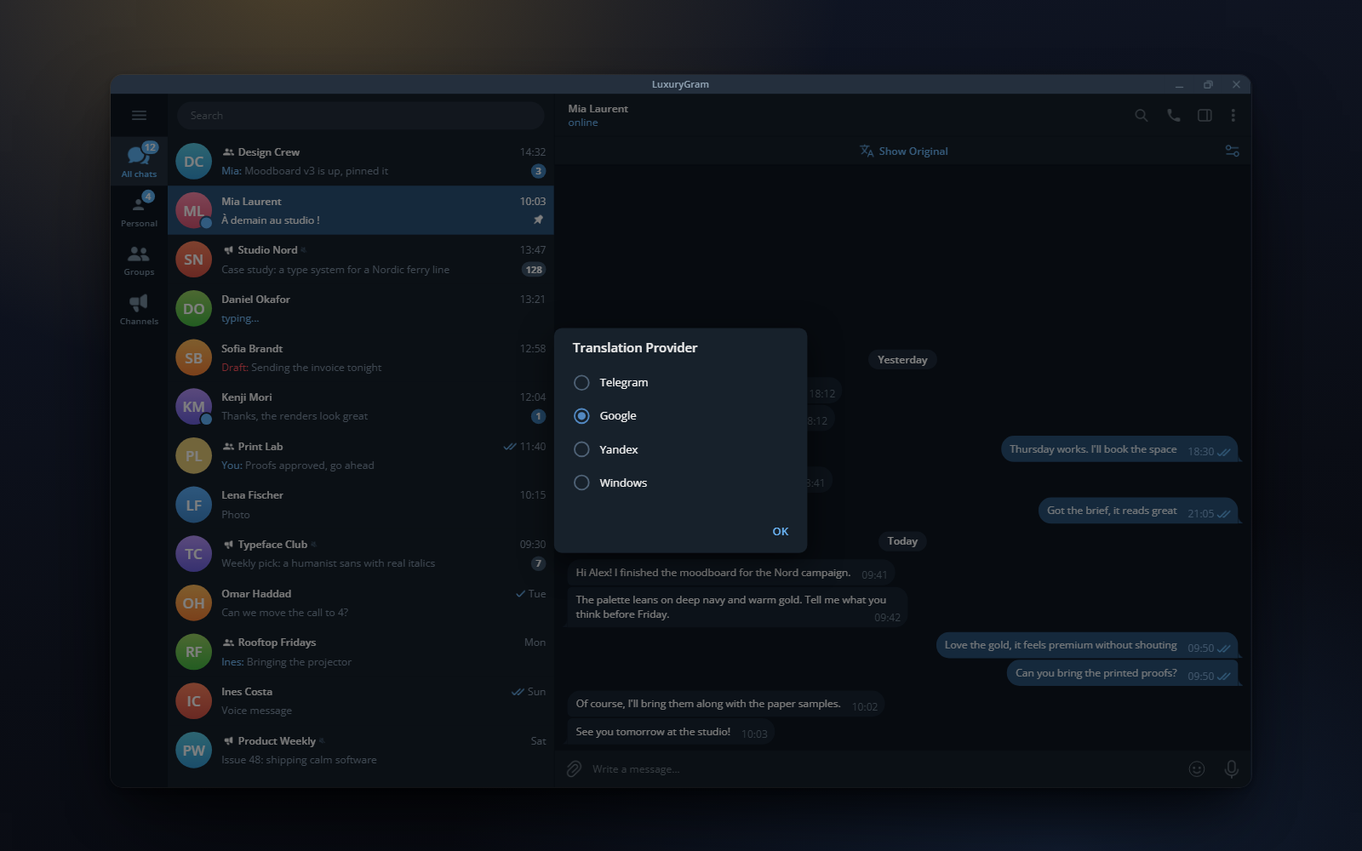
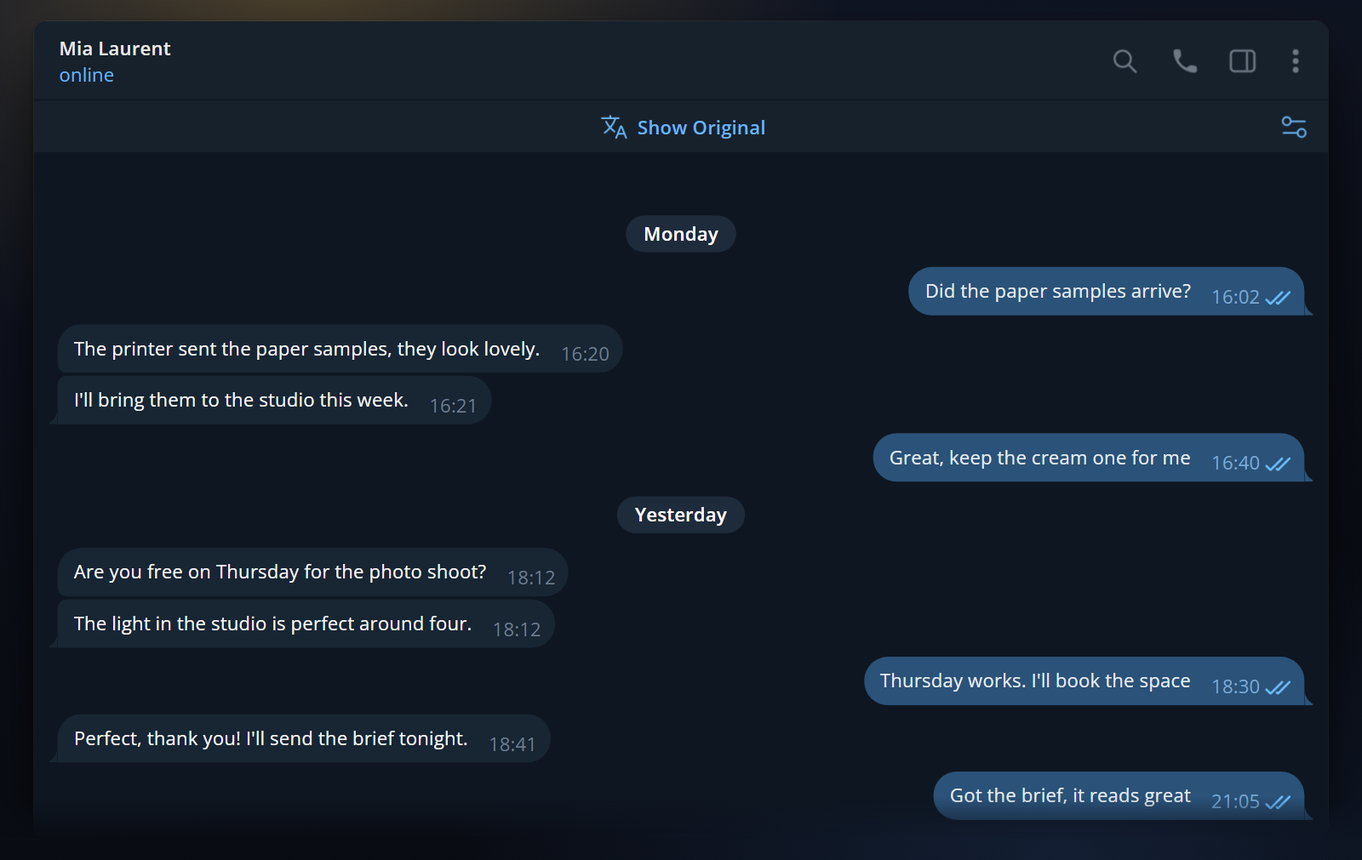
Docs: correct showcase claims and Russian interface paths
Translate card no longer shows a Windows provider; release-gated
items are written for 1.0.22; Russian paths follow the language pack.

diff --git a/README-RU.md b/README-RU.md
@@ -2,7 +2,7 @@
   <img src=".github/assets/showcase/hero.png" width="100%" alt="LuxuryGram: Telegram для компьютера с контролем приватности, анти-удалением и плагинами">
 
   <h1>LuxuryGram</h1>
-  <p><strong>Telegram Desktop с большим контролем: приватность на ваших условиях, история каждой правки и удаления и безопасные плагины.</strong></p>
+  <p><strong>Telegram Desktop с большим контролем: приватность на ваших условиях, история каждой правки и удаления, безопасные плагины.</strong></p>
   <p>Открытый исходный код · На базе AyuGram · Основан на Telegram Desktop · Windows и Linux</p>
 
   <p>
@@ -42,7 +42,7 @@
     <img src=".github/assets/showcase/tour-preview.gif" width="100%" alt="Обзор LuxuryGram: нажмите, чтобы открыть видео">
   </a>
   <br>
-  <sub>Нажмите на превью, чтобы посмотреть обзор целиком (MP4).</sub>
+  <sub>Нажмите на превью, чтобы открыть видеообзор целиком (MP4, 11 МБ).</sub>
 </div>
 
 ## Почему LuxuryGram
@@ -51,7 +51,7 @@
   <tr>
     <td width="50%" valign="top">
       <h3>Приватность на ваших условиях</h3>
-      Читайте чаты и истории без отметок о прочтении, печатайте без индикатора набора и появляйтесь в сети, только когда решите сами. Режим стримера скрывает окно от захвата экрана.
+      Читайте чаты и истории без отметок о прочтении, печатайте без индикатора набора и появляйтесь в сети, только когда решите сами. Режим стримера скрывает окно от захвата экрана в Windows и macOS.
     </td>
     <td width="50%" valign="top">
       <h3>Ничего не исчезает бесследно</h3>
@@ -76,8 +76,8 @@
   <tr>
     <td width="50%" valign="top">
       <img src=".github/assets/showcase/01-hero.png" width="100%" alt="Главное окно LuxuryGram с чатами и папками">
-      <p><strong>Telegram, доведённый до совершенства на компьютере</strong><br>
-      Ваши чаты, папки и группы в привычной раскладке Telegram Desktop, в тёмно-синем с золотом стиле LuxuryGram.</p>
+      <p><strong>Telegram, отточенный для компьютера</strong><br>
+      Ваши чаты, папки и группы в привычной раскладке Telegram Desktop, со встроенными возможностями LuxuryGram.</p>
     </td>
     <td width="50%" valign="top">
       <img src=".github/assets/showcase/02-ghost.png" width="100%" alt="Настройки режима призрака">
@@ -89,19 +89,19 @@
     <td width="50%" valign="top">
       <img src=".github/assets/showcase/03-antirecall.png" width="100%" alt="Удалённые и изменённые сообщения с метками в чате">
       <p><strong>Ничего не исчезает бесследно</strong><br>
-      Удалённые сообщения остаются читаемыми с меткой корзины, изменённые получают карандаш, а ПКМ › History показывает все прежние версии.</p>
+      Удалённые сообщения остаются читаемыми с меткой корзины, изменённые получают карандаш, а ПКМ › «История» показывает все прежние версии.</p>
     </td>
     <td width="50%" valign="top">
       <img src=".github/assets/showcase/04-history.png" width="100%" alt="История правок сообщения">
       <p><strong>Каждая правка на счету</strong><br>
-      Окно History показывает все сохранённые версии сообщения со временем, когда каждая была записана.</p>
+      Окно «История» показывает все сохранённые версии сообщения со временем, когда каждая была записана.</p>
     </td>
   </tr>
   <tr>
     <td width="50%" valign="top">
       <img src=".github/assets/showcase/05-watcher.png" width="100%" alt="Watcher с сеансами в сети и событиями сообщений">
       <p><strong>Кто был в сети и когда</strong><br>
-      Watcher записывает сеансы каждого контакта в сети с их длительностью и хранит изменённые и удалённые сообщения.</p>
+      Watcher записывает сеансы каждого контакта в сети с их длительностью и хранит изменённые и удалённые сообщения. Запись сеансов в сети включается вручную.</p>
     </td>
     <td width="50%" valign="top">
       <img src=".github/assets/showcase/06-plugins.png" width="100%" alt="Страница плагинов с установленными плагинами">
@@ -125,7 +125,7 @@
     <td width="50%" valign="top">
       <img src=".github/assets/showcase/09-translate.png" width="100%" alt="Сообщения, переведённые прямо в чате">
       <p><strong>Перевод через любого провайдера</strong><br>
-      Читайте сообщения на французском и испанском прямо в чате в переводе от выбранного провайдера: Telegram, Google, Яндекс или Windows.</p>
+      Читайте сообщения на французском прямо в чате в переводе от выбранного провайдера: Telegram, Google или Яндекс, а также системным переводчиком в macOS и в Linux с установленным Crow Translate.</p>
     </td>
     <td width="50%" valign="top">
       <img src=".github/assets/showcase/10-shot.png" width="100%" alt="Message Shot превращает сообщения в изображение">
@@ -137,12 +137,12 @@
     <td width="50%" valign="top">
       <img src=".github/assets/showcase/11-settings.png" width="100%" alt="Настройки LuxuryGram">
       <p><strong>Всё в одном месте</strong><br>
-      LuxuryGram Preferences собирает все настройки внешнего вида и приватности в понятные разделы.</p>
+      «Настройки LuxuryGram» собирают все настройки внешнего вида и приватности в понятные разделы.</p>
     </td>
     <td width="50%" valign="top">
       <img src=".github/assets/showcase/12-icons.png" width="100%" alt="Выбор иконки приложения и формы аватаров">
       <p><strong>Сделайте его своим</strong><br>
-      Выбирайте одну из 12 иконок приложения, задавайте форму аватаров и скрывайте значок на панели задач прямо в разделе Appearance.</p>
+      Выбирайте одну из 12 иконок приложения, задавайте форму аватаров и в Windows и macOS скрывайте значок на панели задач прямо в разделе «Внешний вид».</p>
     </td>
   </tr>
 </table>
@@ -152,16 +152,16 @@
 ### А также
 
 - **Фильтры и теневой бан.** Скрывайте спам и нежелательных отправителей фильтрами на регулярных выражениях, теневой бан скрывает человека без блокировки, а наборами фильтров можно делиться через импорт и экспорт.
-- **Меню сообщений для опытных.** Подробные сведения о сообщении в один клик правой кнопкой. Повтор сообщения и пересылка без отправителя или подписи, а также сразу в «Избранное» появятся в следующем релизе.
+- **Меню сообщений для опытных.** Подробные сведения о сообщении и его повтор в один клик правой кнопкой, пересылка без отправителя или подписи, а также сразу в «Избранное».
 - **Расширенный музыкальный плеер.** Обложка, перемотка, управление и кнопка сохранения обложки.
 - **Telegram без лишнего.** Отключайте истории, рекламу, похожие каналы и предупреждения о ссылках, снимайте ограничения на выделение и стикеры, фильтруйте текст Zalgo.
-- **Производительность под ваш процессор** (в следующем релизе). Фоновая работа подстраивается под CPU, одно ядро всегда остаётся интерфейсу, а декодирование медиа уходит из потока интерфейса.
+- **Производительность под ваш процессор.** Фоновая работа подстраивается под CPU, одно ядро всегда остаётся интерфейсу, а первые кадры видео, кэш кастомных эмодзи и файлы анимированных стикеров декодируются вне потока интерфейса.
 
-Всё находится в **Settings › LuxuryGram Preferences**, раздел открывается и из бокового меню. Часть возможностей работает только на вашем устройстве и не меняет поведение серверов Telegram.
+Всё находится в **Настройки › Настройки LuxuryGram**, раздел открывается и из бокового меню. Часть возможностей работает только на вашем устройстве и не меняет поведение серверов Telegram.
 
 ## Плагины
 
-Плагин — это репозиторий GitHub с `plugin.json` и модулями на JavaScript. LuxuryGram скачивает перечисленные файлы, показывает все запрошенные разрешения и запускает код в песочнице QuickJS без доступа к файлам и процессам. Методы входа, сеансов, паролей и платежей плагину недоступны никогда, как и служебный чат с кодами входа и ваш номер телефона. Плагины выйдут в первом релизе после 1.0.21, а сейчас доступны в ветке [`dev`](https://github.com/GofMan5/LuxuryGram/tree/dev).
+Плагин — это репозиторий GitHub с `plugin.json` и модулями на JavaScript. LuxuryGram скачивает перечисленные файлы, показывает все запрошенные разрешения и запускает код в песочнице QuickJS без доступа к файлам и процессам. Методы входа, сеансов и паролей, а также траты Stars и денег плагину недоступны никогда, как и служебный чат с кодами входа и ваш номер телефона. Плагины доступны начиная с LuxuryGram 1.0.22.
 
 Полноценный плагин с командой `/hello` требует одного разрешения:
 
@@ -185,7 +185,7 @@ lux.ui.addCommand({
 });
 ```
 
-Опубликуйте его на GitHub, откройте **Settings › LuxuryGram Preferences › Plugins › Install from GitHub** и вставьте `yourname/repo`. Начните с [руководства автора](docs/plugins/AUTHORING.md), типов [`lux.d.ts`](docs/plugins/lux.d.ts) и [примера hello-world](docs/plugins/examples/hello-world/); полный контракт описан в [архитектуре плагинов](docs/plugins/ARCHITECTURE.md).
+Опубликуйте его на GitHub, откройте **Настройки › Настройки LuxuryGram › Плагины › Установить с GitHub** и вставьте `yourname/repo`. Начните с [руководства автора](docs/plugins/AUTHORING.md), типов [`lux.d.ts`](docs/plugins/lux.d.ts) и [примера hello-world](docs/plugins/examples/hello-world/); полный контракт описан в [архитектуре плагинов](docs/plugins/ARCHITECTURE.md).
 
 ## Вопросы и ответы
 
@@ -204,7 +204,7 @@ lux.ui.addCommand({
 <details>
 <summary><strong>Как работают обновления?</strong></summary>
 <br>
-Приложение проверяет этот репозиторий на новый релиз, скачивает его и сверяет подпись ключом LuxuryGram до распаковки. Пакет, не прошедший проверку, отклоняется. Автообновление отключается в <strong>Settings › Advanced › Update automatically</strong>.
+Приложение проверяет этот репозиторий на новый релиз, скачивает его и сверяет подпись ключом LuxuryGram до распаковки. Пакет, не прошедший проверку, отклоняется. Автообновление отключается в <strong>Настройки › Продвинутые настройки › Обновлять автоматически</strong>.
 </details>
 
 <details>
@@ -223,12 +223,12 @@ lux.ui.addCommand({
 
 | Компонент | Статус |
 | --- | --- |
-| Версия продукта | [`1.0.21`](VERSIONING.md); бамп выполняется вручную или для крупного обновления |
+| Версия продукта | [`1.0.22`](VERSIONING.md); номер версии повышается вручную или для крупного обновления |
 | Исходный код | Открыт в ветке [`dev`](https://github.com/GofMan5/LuxuryGram/tree/dev) |
 | Windows | Опубликован портативный архив `x64` |
 | Linux | Опубликован портативный архив `x64` |
 | macOS | Есть инструкция по сборке; пакет не опубликован |
-| Официальные пакетные менеджеры | Пакеты ещё не опубликованы |
+| Пакетные менеджеры | AUR: [`luxurygram-bin`](packaging/aur/luxurygram-bin) |
 
 На всех поддерживаемых платформах приложение называется LuxuryGram. Небольшой набор унаследованных путей, сервисных адресов и упоминаний AyuGram сохранён намеренно там, где замена нарушила бы совместимость профилей, протоколов или исходной кодовой линии.
 
@@ -244,7 +244,7 @@ lux.ui.addCommand({
 Сверьте загрузку с `SHA256SUMS.txt` из того же релиза:
 
 ```bash
-sha256sum -c SHA256SUMS.txt
+sha256sum -c --ignore-missing SHA256SUMS.txt
 ```
 
 ```powershell

diff --git a/README.md b/README.md
@@ -39,10 +39,10 @@
 
 <div align="center">
   <a href=".github/assets/showcase/luxurygram-tour.mp4">
-    <img src=".github/assets/showcase/tour-preview.gif" width="100%" alt="LuxuryGram tour: click to play the video">
+    <img src=".github/assets/showcase/tour-preview.gif" width="100%" alt="LuxuryGram tour: click to open the video">
   </a>
   <br>
-  <sub>Click the preview to play the full tour (MP4).</sub>
+  <sub>Click the preview to open the full tour video (MP4, 11 MB).</sub>
 </div>
 
 ## Why LuxuryGram
@@ -51,7 +51,7 @@
   <tr>
     <td width="50%" valign="top">
       <h3>Privacy on your terms</h3>
-      Read chats and stories without read receipts, type without the typing indicator, and come online only when you choose. Streamer Mode hides the window from screen capture.
+      Read chats and stories without read receipts, type without the typing indicator, and come online only when you choose. Streamer Mode hides the window from screen capture on Windows and macOS.
     </td>
     <td width="50%" valign="top">
       <h3>Nothing quietly disappears</h3>
@@ -77,7 +77,7 @@
     <td width="50%" valign="top">
       <img src=".github/assets/showcase/01-hero.png" width="100%" alt="LuxuryGram main window with chats and folders">
       <p><strong>Telegram, refined for desktop</strong><br>
-      Your chats, folders and groups in the familiar Telegram Desktop layout, dressed in LuxuryGram's navy-and-gold look.</p>
+      Your chats, folders and groups in the familiar Telegram Desktop layout, with LuxuryGram's controls built in.</p>
     </td>
     <td width="50%" valign="top">
       <img src=".github/assets/showcase/02-ghost.png" width="100%" alt="Ghost Mode settings">
@@ -101,7 +101,7 @@
     <td width="50%" valign="top">
       <img src=".github/assets/showcase/05-watcher.png" width="100%" alt="Watcher with online sessions and message events">
       <p><strong>See who's online, when</strong><br>
-      Watcher logs each contact's online sessions with durations and keeps edited and deleted messages, so nothing quietly disappears.</p>
+      Watcher logs each contact's online sessions with durations and keeps edited and deleted messages. Online session logging is off until you turn it on.</p>
     </td>
     <td width="50%" valign="top">
       <img src=".github/assets/showcase/06-plugins.png" width="100%" alt="Plugins page with installed plugins">
@@ -125,7 +125,7 @@
     <td width="50%" valign="top">
       <img src=".github/assets/showcase/09-translate.png" width="100%" alt="Messages translated in place">
       <p><strong>Translate with any provider</strong><br>
-      Read French and Spanish messages in place, translated by the provider you pick: Telegram, Google, Yandex or Windows.</p>
+      Read French messages in place, translated by the provider you pick: Telegram, Google or Yandex, plus the system translator on macOS and on Linux with Crow Translate installed.</p>
     </td>
     <td width="50%" valign="top">
       <img src=".github/assets/showcase/10-shot.png" width="100%" alt="Message Shot turning messages into an image">
@@ -142,7 +142,7 @@
     <td width="50%" valign="top">
       <img src=".github/assets/showcase/12-icons.png" width="100%" alt="App icon picker and avatar shape settings">
       <p><strong>Make it look yours</strong><br>
-      Pick from 12 app icons, shape your avatars and hide the taskbar badge right from Appearance.</p>
+      Pick from 12 app icons, shape your avatars and, on Windows and macOS, hide the taskbar badge right from Appearance.</p>
     </td>
   </tr>
 </table>
@@ -152,16 +152,16 @@
 ### Also inside
 
 - **Filters and Shadow Ban.** Hide spam and unwanted senders with regex filters, shadow-ban people without blocking them, and share filter sets through import and export.
-- **Power-user message menu.** Inspect a message's full details from one right-click. Repeat Message and forwarding without the sender or caption, or straight to Saved Messages, arrive in the next release.
+- **Power-user message menu.** Inspect a message's full details or repeat it from one right-click, and forward without the sender or caption, or straight to Saved Messages.
 - **Expanded music player.** Cover art, seekable progress and controls, with a button to save the cover.
 - **Cleaner Telegram.** Turn off stories, ads, similar-channel suggestions and link warnings, lift selection and sticker limits, and filter Zalgo text.
-- **Processor-aware performance** (next release). Background work sizes itself to your CPU, keeps a core free for the interface and moves media decoding off the UI thread.
+- **Processor-aware performance.** Background work sizes itself to your CPU, keeps a core free for the interface, and decodes first video frames, cached custom emoji and animated sticker files off the interface thread.
 
 Everything is under **Settings › LuxuryGram Preferences**, also reachable from the side menu. Some features work only on your device and cannot change how Telegram's servers behave.
 
 ## Plugins
 
-Plugins are GitHub repositories with a `plugin.json` and JavaScript modules. LuxuryGram downloads the listed files, shows you every permission they ask for, and runs the code in a QuickJS sandbox with no file or process access. Methods that touch login, sessions, passwords or payments are never available to a plugin, and neither are the login-code service chat or your phone number. Plugins ship with the first release after 1.0.21 and are on the [`dev`](https://github.com/GofMan5/LuxuryGram/tree/dev) branch today.
+Plugins are GitHub repositories with a `plugin.json` and JavaScript modules. LuxuryGram downloads the listed files, shows you every permission they ask for, and runs the code in a QuickJS sandbox with no file or process access. Methods that touch login, sessions or passwords, or spend Stars or money, are never available to a plugin, and neither are the login-code service chat or your phone number. Plugins are available from LuxuryGram 1.0.22.
 
 A complete plugin that adds a `/hello` command needs one permission:
 
@@ -223,12 +223,12 @@ No. Deleted messages, edit history and Watcher data are stored locally by your c
 
 | Surface | Status |
 | --- | --- |
-| Product version | [`1.0.21`](VERSIONING.md); bumps are manual or tied to substantial updates |
+| Product version | [`1.0.22`](VERSIONING.md); bumps are manual or tied to substantial updates |
 | Source code | Public on the [`dev`](https://github.com/GofMan5/LuxuryGram/tree/dev) branch |
 | Windows | Portable `x64` archive published |
 | Linux | Portable `x64` archive published |
 | macOS | Build guide available; no published package |
-| Official package managers | Not published |
+| Package managers | AUR: [`luxurygram-bin`](packaging/aur/luxurygram-bin) |
 
 The application identity is LuxuryGram on every supported platform. A small set of inherited AyuGram paths, service endpoints and attribution references stays on purpose where changing it would break profile, protocol or source-line compatibility.
 
@@ -244,7 +244,7 @@ Download only from [Releases](https://github.com/GofMan5/LuxuryGram/releases). D
 Check the download against `SHA256SUMS.txt` from the same release:
 
 ```bash
-sha256sum -c SHA256SUMS.txt
+sha256sum -c --ignore-missing SHA256SUMS.txt
 ```
 
 ```powershell
